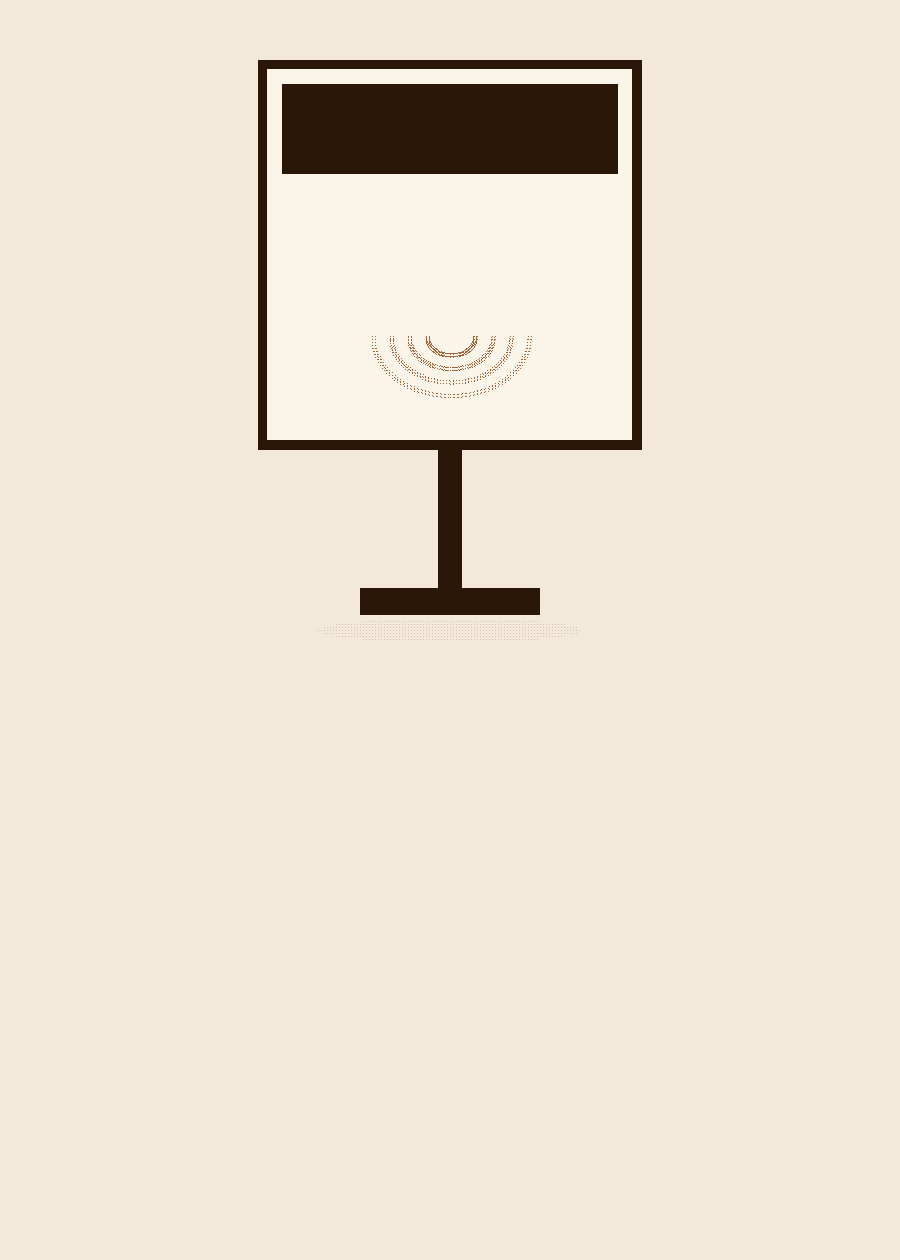
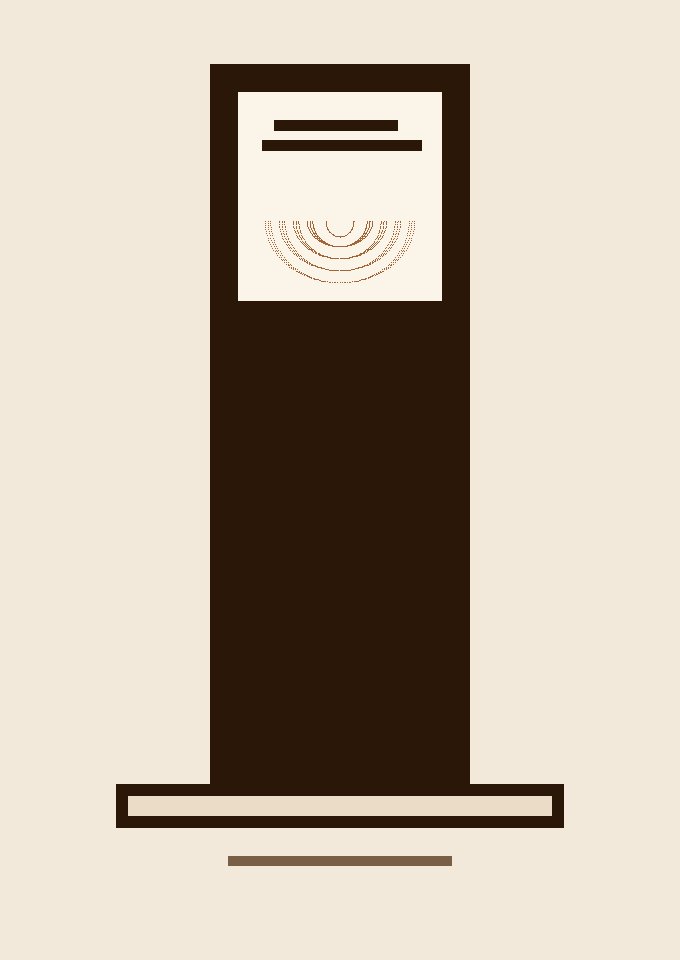
Employés : borne colonne, empreinte propre, chemin qui va jusqu'au bout
Ses trois reproches du 22/11, tous justes :

1. l'empreinte digitale est mal faite. Les arcs étaient tracés à la main,
   de travers et coupés. Remplacés par des demi-ellipses CALCULÉES par
   formule, dans leur propre composant EmpreinteDigitale.

2. fais une borne avec cette forme (sa photo : une colonne sur socle).
   Le fût est maintenant haut et étroit (58 % de large, 1,62 fois la
   largeur), l'écran carré est posé en haut du fût, et le pied est plus
   large que le fût.

   ET surtout : le texte de l'écran était COUPÉ (« Et maintenant… » sur
   deux lignes qui débordaient d'un écran trop court). L'écran est passé
   du sombre au clair, le texte se replie (overflow-wrap), et il est en
   colonne avec l'empreinte.

3. la pancarte du bas n'a plus le chemin. Cause mesurée : la hauteur du
   parcours n'était mesurée qu'UNE fois, au chargement. Les cartes
   arrivent après, la page grandit, le chemin restait court et
   n'atteignait jamais le bas. Un ResizeObserver remesure à chaque
   changement, avec un repli quand l'API manque (jsdom).

La borne est aussi sortie de l'absolu : elle occupe sa propre colonne
dans une grille à trois (titre | borne | recherche), au lieu de
recouvrir le titre et la recherche.

+ 0 test (2 004) — les tests existants ont été corrigés, pas contournés.

Changed region(s): [[0.1544, 0.0312, 0.8338, 0.9062]]

diff --git a/src/pages/EmployesV3.css b/src/pages/EmployesV3.css
@@ -2287,13 +2287,16 @@
    ═══════════════════════════════════════════════════════════ */
 
 .empv3-liste-tete {
-  display: flex;
+  display: grid;
+  grid-template-columns: 1fr auto 1fr;
   align-items: center;
-  justify-content: space-between;
-  flex-wrap: wrap;
-  gap: 12px;
+  gap: 16px;
   margin-bottom: 12px;
 }
+
+/* le titre à gauche, la recherche à droite, la borne au centre */
+.empv3-liste-tete .empv3-bloc-titre { justify-self: start; }
+.empv3-liste-tete .empv3-recherche { justify-self: end; }
 
 .empv3-bloc-titre {
   display: flex;
@@ -3538,13 +3541,18 @@
   pointer-events: none;
 }
 
-/* celle de l'en-tête de liste : elle pousse la recherche, sans la casser */
+/* celle de l'en-tête de liste : au milieu, dans sa colonne, sans recouvrir */
 .empv3-borne--entete {
-  position: absolute;
-  left: 50%;
-  top: 50%;
-  transform: translate(-50%, -50%);
+  position: static;
+  transform: none;
+  justify-self: center;
   margin: 0;
+}
+
+@media (max-width: 860px) {
+  .empv3-liste-tete { grid-template-columns: 1fr; justify-items: start; }
+  .empv3-liste-tete .empv3-recherche { justify-self: stretch; width: 100%; }
+  .empv3-borne--entete { justify-self: center; }
 }
 
 .borne {
@@ -3659,7 +3667,8 @@
 .pancarte--cahier .pancarte-panneau { padding-top: 10px; }
 
 /* ═══════════════════════════════════════════════════════════
-   LA BORNE — plus grande, avec son écran et son empreinte
+   LA BORNE — la forme « colonne » qu'il a demandée (22/11)
+   Un fût vertical, un écran carré en haut, un pied plus large.
    ═══════════════════════════════════════════════════════════ */
 
 .borne {
@@ -3669,71 +3678,76 @@
   width: var(--borne-taille);
 }
 
-.borne-machine {
+/* le fût : le corps de la colonne.
+   Haute et étroite comme sur sa photo de référence — pas trapue. */
+.borne-fut {
   position: relative;
   display: flex;
   flex-direction: column;
   align-items: center;
-  justify-content: center;
-  gap: 4px;
-  width: 100%;
-  padding: 10px 8px 9px;
+  width: 58%;
+  height: calc(var(--borne-taille) * 1.62);
+  padding: 7px 7px 0;
   border: 3px solid var(--charte-encre);
-  border-radius: 10px;
-  background: var(--charte-surface);
-  box-shadow: 3px 3px 0 var(--charte-encre);
+  border-bottom: 0;
+  border-radius: 12px 12px 0 0;
+  background: var(--charte-encre);
 }
 
-/* l'écran de la borne — « Et maintenant… » */
+/* l'écran carré, posé en haut du fût */
 .borne-ecran {
+  display: flex;
+  flex-direction: column;
+  align-items: center;
+  justify-content: center;
+  gap: 6px;
+  width: 100%;
+  aspect-ratio: 1 / 1.02;
+  padding: 7px 6px;
+  border: 2px solid var(--charte-encre);
+  border-radius: 6px;
+  background: var(--charte-surface);
+}
+
+/* le texte est un vrai texte : il ne peut pas être coupé, il se replie */
+.borne-ecran-mot {
   display: block;
   width: 100%;
-  padding: 4px 5px;
-  border: 2px solid var(--charte-encre);
-  border-radius: 5px;
-  background: var(--charte-encre);
-  color: var(--charte-surface);
-  font-size: 10px;
-  font-weight: 700;
-  line-height: 1.15;
+  font-size: 11px;
+  font-weight: 800;
+  line-height: 1.1;
   text-align: center;
-  letter-spacing: -0.1px;
+  color: var(--charte-encre);
+  overflow-wrap: anywhere;
 }
 
 .borne-empreinte {
   display: block;
-  width: 52%;
+  width: 74%;
   height: auto;
   color: var(--charte-aplat);
 }
 
-/* le mât, le socle, l'ombre au sol */
-.borne-mat {
+/* le bas du fût, sous l'écran */
+.borne-corps {
   display: block;
-  width: 8px;
-  height: 30px;
-  background: var(--charte-encre);
+  flex: 1 1 auto;
+  width: 100%;
+  min-height: 34px;
 }
 
-.borne-socle {
+/* le pied : plus large que le fût */
+.borne-pied {
   display: block;
-  width: 62%;
-  height: 8px;
-  border-radius: 3px;
-  background: var(--charte-encre);
-}
-
-.borne-ombre {
-  display: block;
-  width: 92%;
-  height: 7px;
-  margin-top: 2px;
-  border-radius: 50%;
-  background: color-mix(in srgb, var(--charte-aplat) 24%, transparent);
+  width: 100%;
+  height: 11px;
+  border: 3px solid var(--charte-encre);
+  border-radius: 5px;
+  background: var(--charte-surface2);
 }
 
 .borne-mot {
-  margin-top: 5px;
+  margin-top: 6px;
   font-size: 9px;
   font-weight: 700;
   letter-spacing: 0.5px;
@@ -3743,6 +3757,7 @@
 }
 
 @media (max-width: 720px) {
-  .borne-ecran { font-size: 8.5px; }
+  .borne-ecran-mot { font-size: 9px; }
   .borne-mot { font-size: 8px; }
+}
 }

diff --git a/src/components/parcours/BornePointage.jsx b/src/components/parcours/BornePointage.jsx
@@ -1,38 +1,56 @@
 // ═══════════════════════════════════════════════════════════
-// 🕗 LA BORNE DE POINTAGE
+// 🕗 LA BORNE DE POINTAGE — forme « colonne », comme les vraies
 //
-// Sa demande du 22/11 : « dessine mieux cette borne […] dans la borne
-// tu mets une empreinte digitale avec un écran disant "Et
-// maintenant…" ». Et : « grossis les un peu ».
+// Sa demande du 22/11 : « fais une borne avec cette forme » (une
+// colonne sur socle, écran en haut) et « l'empreinte digitale est mal
+// faite ».
 //
-// Le texte de l'écran est du VRAI HTML, pas du dessin : il se lit à
-// toutes les tailles, il se sélectionne, et il grossit avec la
-// préférence du système. Le reste est en SVG.
+// La forme : un fût vertical, un écran carré en haut, un pied plus
+// large que le fût. Tout en HTML pour le cadre, en SVG pour la seule
+// empreinte.
+//
+// L'empreinte : des demi-elliipses concentriques, calculées par
+// formule — pas des courbes tracées à la main, qui donnaient des arcs
+// de travers.
 // ═══════════════════════════════════════════════════════════
+
+/** une empreinte propre : des demi-ellipses concentriques + la boucle */
+export function EmpreinteDigitale({ className = '' }) {
+  const arcs = [26, 21, 16, 11]
+  return (
+    <svg className={className} viewBox="0 0 64 44" aria-hidden="true" focusable="false">
+      <g fill="none" stroke="currentColor" strokeLinecap="round">
+        {arcs.map((r, i) => (
+          <path
+            key={i}
+            d={`M ${32 - r} 34 A ${r} ${r * 0.86} 0 0 1 ${32 + r} 34`}
+            strokeWidth={i === 0 ? 3.2 : 3}
+          />
+        ))}
+        {/* la boucle du centre, ouverte vers le bas */}
+        <path d="M 27 34 A 5 5.6 0 0 1 37 34" strokeWidth={3} />
+      </g>
+    </svg>
+  )
+}
 
 export default function BornePointage({ taille = 96, className = '' }) {
   return (
     <div className={`borne ${className}`.trim()} style={{ '--borne-taille': `${taille}px` }}>
-      <div className="borne-machine">
-        {/* l'écran : « Et maintenant… » */}
-        <span className="borne-ecran">Et maintenant…</span>
+      {/* le fût : toute la colonne */}
+      <div className="borne-fut">
+        {/* l'écran, en haut du fût */}
+        <div className="borne-ecran">
+          <span className="borne-ecran-mot">Et maintenant…</span>
+          <EmpreinteDigitale className="borne-empreinte" />
+        </div>
 
-        {/* le capteur d'empreinte, sous l'écran */}
-        <svg className="borne-empreinte" viewBox="0 0 40 30" aria-hidden="true" focusable="false">
-          <g fill="none" stroke="currentColor" strokeWidth="2" strokeLinecap="round">
-            <path d="M11 22 C7.5 17.5 7.5 11 12 7.5 C16.5 4 24 4 28.5 8 C32.5 11.6 33 18 30 22.6" />
-            <path d="M15 23.5 C12.5 19.6 12.8 14.4 16.2 11.8 C19.6 9.2 24.6 9.6 27 13 C29 15.9 29 20 26.6 23.4" />
-            <path d="M19 24.6 C17.6 21.6 17.8 17.6 20 15.8 C22.2 14 25 14.6 26.2 17 C27.2 19 26.8 21.9 25.2 24" />
-            <path d="M22.4 25.4 C21.9 23.3 22.3 20.8 23.6 19.8 C24.8 18.9 25.8 19.7 26 21.2" />
-          </g>
-        </svg>
+        {/* le corps du fût, avec son liseré */}
+        <span className="borne-corps" aria-hidden="true" />
       </div>
 
-      {/* le pied de la borne : un mât, puis un socle */}
-      <span className="borne-mat" aria-hidden="true" />
-      <span className="borne-socle" aria-hidden="true" />
-      <span className="borne-ombre" aria-hidden="true" />
-
+      {/* le pied, plus large que le fût */}
+      <span className="borne-pied" aria-hidden="true" />
       <span className="borne-mot">Borne de pointage</span>
     </div>
   )

diff --git a/src/services/__tests__/employesEquipesTaches.test.jsx b/src/services/__tests__/employesEquipesTaches.test.jsx
@@ -1229,6 +1229,10 @@ describe('la page Employés', () => {
     expect(EMPLOYES).toContain('empv3-chemin')
     expect(EMPLOYES).toContain('CheminEmpreintes')
     expect(EMPLOYES).toContain('empv3-borne')
+    // la mesure de hauteur suit la page : sinon le chemin s'arrête avant la
+    // seconde pancarte (sa capture du 22/11)
+    expect(CHEMIN).toContain('new ResizeObserver(mesurer)')
+    expect(CHEMIN).toContain("typeof ResizeObserver !== 'undefined'")
     expect(EMPLOYES).toContain('BornePointage')
 
     expect(CSS_EMP).toMatch(/\.empv3-chemin \{[\s\S]{0,220}pointer-events: none/)
@@ -1245,11 +1249,14 @@ describe('la page Employés', () => {
     expect(BORNE).toContain('Et maintenant…')
     // une empreinte digitale : des arcs concentriques
     expect(BORNE).toContain('borne-empreinte')
-    const arcs = BORNE.match(/<path d="M1[0-9] |<path d="M2[0-9] /g)
-    expect(arcs && arcs.length).toBeGreaterThanOrEqual(3)
-    // un mât, un socle, une ombre
-    expect(BORNE).toContain('borne-mat')
-    expect(BORNE).toContain('borne-socle')
+    // l'empreinte : des arcs CALCULÉS par formule, pas tracés à la main
+    expect(BORNE).toContain('EmpreinteDigitale')
+    expect(BORNE).toContain('const arcs = [26, 21, 16, 11]')
+    expect(BORNE).toMatch(/A \$\{r\} \$\{r \* 0\.86\}/)
+    // la forme colonne : un fût, un écran carré, un pied plus large
+    expect(BORNE).toContain('borne-fut')
+    expect(BORNE).toContain('borne-pied')
+    expect(BORNE).not.toContain('borne-socle')
 
     // la pancarte du haut : un cahier avec une coche et le mot « Avant… »
     expect(PANCARTE).toContain('CahierDePointage')
@@ -1260,7 +1267,10 @@ describe('la page Employés', () => {
 
     const CSS_EMP = readFileSync('src/pages/EmployesV3.css', 'utf8')
     // l'écran est un écran : fond sombre, texte clair
-    expect(CSS_EMP).toMatch(/\.borne-ecran \{[\s\S]{0,300}background: var\(--charte-encre\)/)
+    // l'écran est CLAIR avec du texte sombre : sur fond sombre, son texte
+    // débordait et se faisait couper (sa capture du 22/11)
+    expect(CSS_EMP).toMatch(/\.borne-ecran \{[\s\S]{0,320}background: var\(--charte-surface\)/)
+    expect(CSS_EMP).toMatch(/\.borne-ecran-mot \{[\s\S]{0,260}overflow-wrap: anywhere/)
     expect(CSS_EMP).toMatch(/\.pancarte-mot \{[\s\S]{0,200}font-family: 'Caveat'/)
   })
 

diff --git a/src/components/parcours/CheminEmpreintes.jsx b/src/components/parcours/CheminEmpreintes.jsx
@@ -53,14 +53,38 @@ export default function CheminEmpreintes({ className = '', opacite = 0.52 }) {
   // la hauteur réelle du parcours : le chemin doit aller jusqu'en bas
   const [hauteur, setHauteur] = useState(1400)
 
+  // ⚠ CE QUI ÉTAIT FAUX (sa capture du 22/11) : la hauteur n'était
+  // mesurée qu'UNE fois, au chargement. Or les cartes arrivent après,
+  // la page grandit, et le chemin restait court : il n'atteignait
+  // jamais la pancarte du bas. Un ResizeObserver le remesure à chaque
+  // changement de taille, quel qu'en soit la cause.
   useEffect(() => {
+    const parent = document.querySelector('.empv3-parcours')
+    if (!parent) return undefined
+
     const mesurer = () => {
-      const parent = document.querySelector('.empv3-parcours')
-      if (parent) setHauteur(Math.max(parent.getBoundingClientRect().height, 400))
+      const h = parent.getBoundingClientRect().height
+      if (h > 0) setHauteur(Math.max(h, 400))
     }
+
     mesurer()
+    // ResizeObserver n'existe pas partout (jsdom, vieux navigateurs) :
+    // on s'en passe alors, le redimensionnement suffit.
+    let observateur = null
+    if (typeof ResizeObserver !== 'undefined') {
+      observateur = new ResizeObserver(mesurer)
+      observateur.observe(parent)
+    }
     window.addEventListener('resize', mesurer)
-    return () => window.removeEventListener('resize', mesurer)
+
+    // les cartes peuvent arriver une seconde après : on remesure encore
+    const rappels = [400, 1200, 2500].map((ms) => setTimeout(mesurer, ms))
+
+    return () => {
+      if (observateur) observateur.disconnect()
+      window.removeEventListener('resize', mesurer)
+      rappels.forEach(clearTimeout)
+    }
   }, [])
 
   // ⚠ un tour de sinus COMPLET par tuile, sinon le tracé saute

diff --git a/src/pages/Employes.jsx b/src/pages/Employes.jsx
@@ -2058,9 +2058,10 @@ export default function Employes() {
                   )}
                 </label>
 
-                {/* la borne se plante ici, au milieu de l'espace libre */}
+                {/* la borne se plante au milieu de la ligne, entre le titre
+                    et la recherche : elle ne recouvre plus rien */}
                 <span className="empv3-borne empv3-borne--entete">
-                  <BornePointage taille={76} />
+                  <BornePointage taille={112} />
                 </span>
               </div>
 
